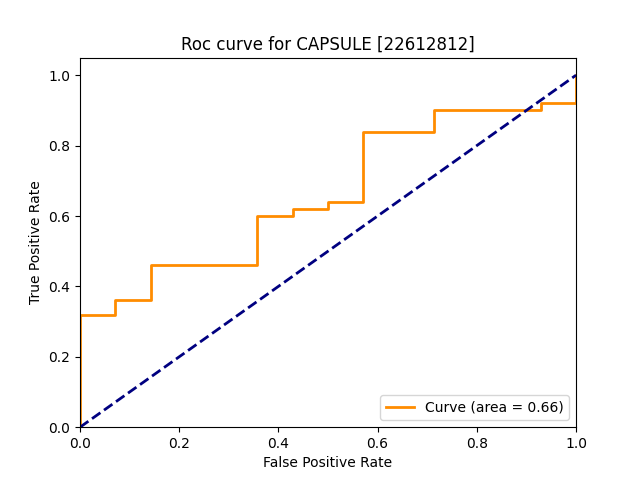
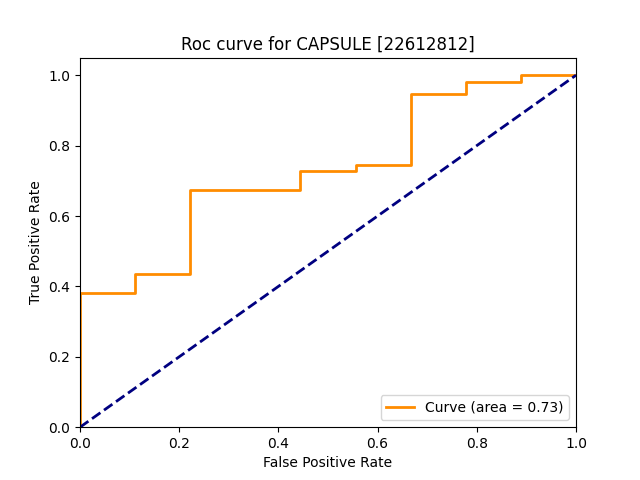
rerun experiments with new data 🧪

Changed region(s): [[0.4688, 0.1562, 0.9062, 0.4375], [0.125, 0.375, 0.4688, 0.6875], [0.8438, 0.8125, 0.875, 0.875]]

diff --git a/src/inference.py b/src/inference.py
@@ -52,7 +52,7 @@ def inference_pipeline(
     
     print('')
     print('>>> Loading model')
-    sslm = SSLM()
+    sslm = SSLM(dims=[512,512,512,512,512,512,512,512,512])
     sslm = SSLM.load_from_checkpoint(model_dir, model=sslm.model)
     sslm.eval()
     if torch.cuda.is_available():
@@ -260,16 +260,17 @@ def run(
         np.mean(aupro_scores))
     
     report = mtr.metrics_to_dataframe(metric_dict, np.array(experiments_list))
-    #mtr.export_dataframe(report, saving_path=root_outputs_dir, name='image_level_scores.csv')
+    mtr.export_dataframe(report, saving_path=root_outputs_dir, name='scores.csv')
+    
     
 if __name__ == "__main__":
     
     experiments = get_all_subject_experiments('dataset/')
     run(
-        experiments_list=experiments,
+        experiments_list=['cable'],
         dataset_dir='dataset/',
-        root_inputs_dir='outputs/computations/',
-        root_outputs_dir='outputs/computations/',
+        root_inputs_dir='brutta_copia/computations/',
+        root_outputs_dir='brutta_copia/computations/',
         num_experiments_for_each_subject=5,
         seed_list=[
             187372311,

diff --git a/src/self_supervised/model.py b/src/self_supervised/model.py
@@ -25,7 +25,7 @@ class SSLModel(nn.Module):
         
         self.feature_extractor = self.setup_feature_extractor()
         self.projection_head = self.setup_projection_head(dims)
-        self.classifier = nn.Linear(128, self.num_classes)
+        self.classifier = nn.Linear(dims[-1], self.num_classes)
         
         self.localization = False
         #random.seed(seed)
@@ -117,7 +117,8 @@ class SSLM(pl.LightningModule):
     def __init__(
             self,
             num_epochs:int=None,
-            lr:float=CONST.DEFAULT_LEARNING_RATE()):
+            lr:float=CONST.DEFAULT_LEARNING_RATE(),
+            dims=CONST.DEFAULT_PROJECTION_HEAD_DIMS()):
         
         super(SSLM, self).__init__()
         self.save_hyperparameters()
@@ -130,7 +131,7 @@ class SSLM(pl.LightningModule):
         #np.random.seed(seed)
         #torch.random.manual_seed(seed)
         
-        self.model = SSLModel(self.num_classes)
+        self.model = SSLModel(self.num_classes, dims)
         self.localization = False
     
     

diff --git a/src/training.py b/src/training.py
@@ -75,7 +75,10 @@ def training_pipeline(
     )
     
     print('>>> setting up the model')
-    pretext_model = SSLM(num_epochs=projection_training_epochs, lr=projection_training_lr)
+    pretext_model = SSLM(
+        num_epochs=projection_training_epochs, 
+        lr=projection_training_lr,
+        dims=[512,512,512,512,512,512,512,512,512])
     trainer, cb = get_trainer(0.98, projection_training_epochs, 15)
     print('>>> start training (training projection head)')
     trainer.fit(pretext_model, datamodule=datamodule)
@@ -138,7 +141,7 @@ if __name__ == "__main__":
 
     experiments = get_all_subject_experiments('dataset/')
     run(
-        experiments_list=experiments,
+        experiments_list=['cable'],
         dataset_dir='dataset/', 
         root_outputs_dir='brutta_copia/computations/',
         imsize=(256,256),

diff --git a/src/test.py b/src/test.py
@@ -370,13 +370,15 @@ def white2black(im):
     return Image.fromarray(data)
 
 
+def update_csv(filename, new_item):
+    df = pd.read_csv(filename)
+    name = df.loc[0][0]
+    auc = df.loc[0][1]
+    f1 = df.loc[0][2]
+    pro = df.loc[0][3]
+    print(name, auc, f1, pro)
+    
+update_csv('brutta_copia/computations/scores.csv', _)
 
-#np.random.seed(0)
-#random.seed(0)
-x = Image.open('dataset/bottle/train/good/000.png').resize((256,256)).convert('RGB')
-#x = transforms.RandomCrop((64,64))(x)
-y, mask, coords = generate_polygoned_scar(x, augs=CPP.jitter_transforms, colorized=False)
-#y, mask, coords = generate_patch(x, polygoned=True)
-z = paste_patch(x, y, coords, mask)
-plt.imshow(z)
-plt.savefig('a.png', bbox_inches='tight')
+#with open('outputs/computations/scores.csv','a') as fd:
+    #fd.write(myCsvRow)

diff --git a/README.md b/README.md
@@ -87,7 +87,7 @@ The network is trained two times, first with imagenet weights frozen, then finet
 | <img src="https://raw.githubusercontent.com/gabry1998/Self-Supervised-Anomaly-Detection/master/outputs/computations/bottle/image_level/tsne.png"/> | <img src="https://raw.githubusercontent.com/gabry1998/Self-Supervised-Anomaly-Detection/master/outputs/computations/bottle/image_level/roc.png"/>|
 
 Gradcam example (Image Level Localization)
-<img src="https://raw.githubusercontent.com/gabry1998/Self-Supervised-Anomaly-Detection/master/outputs/computations/bottle/image_level/gradcam/heatmap_and_masks_2.png"/>
+<img src="https://raw.githubusercontent.com/gabry1998/Self-Supervised-Anomaly-Detection/master/outputs/computations/bottle/image_level/gradcam/heatmap_and_masks_1.png"/>
 
 #### Texture (GRID)
 
@@ -96,16 +96,29 @@ Gradcam example (Image Level Localization)
 | <img src="https://raw.githubusercontent.com/gabry1998/Self-Supervised-Anomaly-Detection/master/outputs/computations/grid/image_level/tsne.png"/> | <img src="https://raw.githubusercontent.com/gabry1998/Self-Supervised-Anomaly-Detection/master/outputs/computations/grid/image_level/roc.png"/> |
 
 Gradcam example (Image Level Localization)
-<img src="https://raw.githubusercontent.com/gabry1998/Self-Supervised-Anomaly-Detection/master/outputs/computations/grid/image_level/gradcam/heatmap_and_masks_0.png"/>
+<img src="https://raw.githubusercontent.com/gabry1998/Self-Supervised-Anomaly-Detection/master/outputs/computations/grid/image_level/gradcam/heatmap_and_masks_1.png"/>
 
 #### Explanation
 In the example we have an almost perfect scenario in BOTTLES, and the real defect (purple) are in the same region as artificial defects. In GRID we can see a more sparse distribution, caused by the homogeneous patterns in images and small defects hard to localize, still, we can see real defect overlapped on scars and polygon patches
-
+### Experiments results
+Experiments run with 5 different seed and batch size of 64
+|     | AUC | F1-SCORE | AUPRO |
+| :--:     | :--:   | :--: | :--: |
+average    |  0.87  |	0.77 |	0.46 
+bottle     |	1	|   0.98 |  0.7 
+cable      |  0.8	|   0.76 |	0.52 
+capsule    |  0.74  |	0.44 |	0.26 
+grid	   |  0.91  |	0.89 |	0.5 
+metal nut  |  0.96  |	0.87 |	0.44 
+screw      |  0.65  |	0.43 |	0.22 
+tile       |  0.97  |	0.85 |	0.53 
+toothbrush |  0.85  |	0.81 |	0.4 
+zipper     |  0.97  |	0.91 |  0.56
 ### Other Examples
 
-<img src="https://raw.githubusercontent.com/gabry1998/Self-Supervised-Anomaly-Detection/master/outputs/computations/cable/image_level/gradcam/heatmap_and_masks_0.png"/>
-<img src="https://raw.githubusercontent.com/gabry1998/Self-Supervised-Anomaly-Detection/master/outputs/computations/capsule/image_level/gradcam/heatmap_and_masks_2.png"/>
-<img src="https://raw.githubusercontent.com/gabry1998/Self-Supervised-Anomaly-Detection/master/outputs/computations/screw/image_level/gradcam/heatmap_and_masks_0.png"/>
+<img src="https://raw.githubusercontent.com/gabry1998/Self-Supervised-Anomaly-Detection/master/outputs/computations/cable/image_level/gradcam/heatmap_and_masks_1.png"/>
+<img src="https://raw.githubusercontent.com/gabry1998/Self-Supervised-Anomaly-Detection/master/outputs/computations/capsule/image_level/gradcam/heatmap_and_masks_1.png"/>
+<img src="https://raw.githubusercontent.com/gabry1998/Self-Supervised-Anomaly-Detection/master/outputs/computations/screw/image_level/gradcam/heatmap_and_masks_1.png"/>
 <img src="https://raw.githubusercontent.com/gabry1998/Self-Supervised-Anomaly-Detection/master/outputs/computations/tile/image_level/gradcam/heatmap_and_masks_1.png"/>
-<img src="https://raw.githubusercontent.com/gabry1998/Self-Supervised-Anomaly-Detection/master/outputs/computations/toothbrush/image_level/gradcam/heatmap_and_masks_2.png"/>
-<img src="https://raw.githubusercontent.com/gabry1998/Self-Supervised-Anomaly-Detection/master/outputs/computations/zipper/image_level/gradcam/heatmap_and_masks_2.png"/>
+<img src="https://raw.githubusercontent.com/gabry1998/Self-Supervised-Anomaly-Detection/master/outputs/computations/toothbrush/image_level/gradcam/heatmap_and_masks_1.png"/>
+<img src="https://raw.githubusercontent.com/gabry1998/Self-Supervised-Anomaly-Detection/master/outputs/computations/zipper/image_level/gradcam/heatmap_and_masks_1.png"/> 
